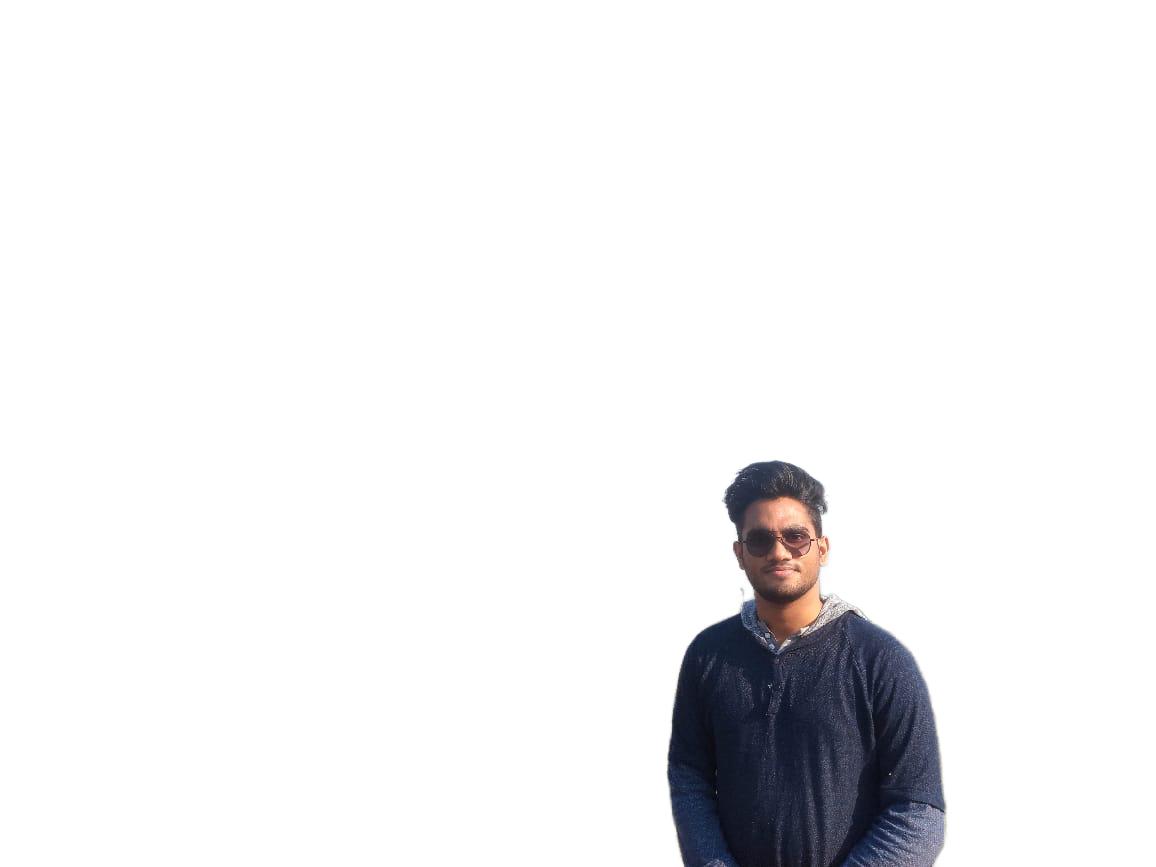
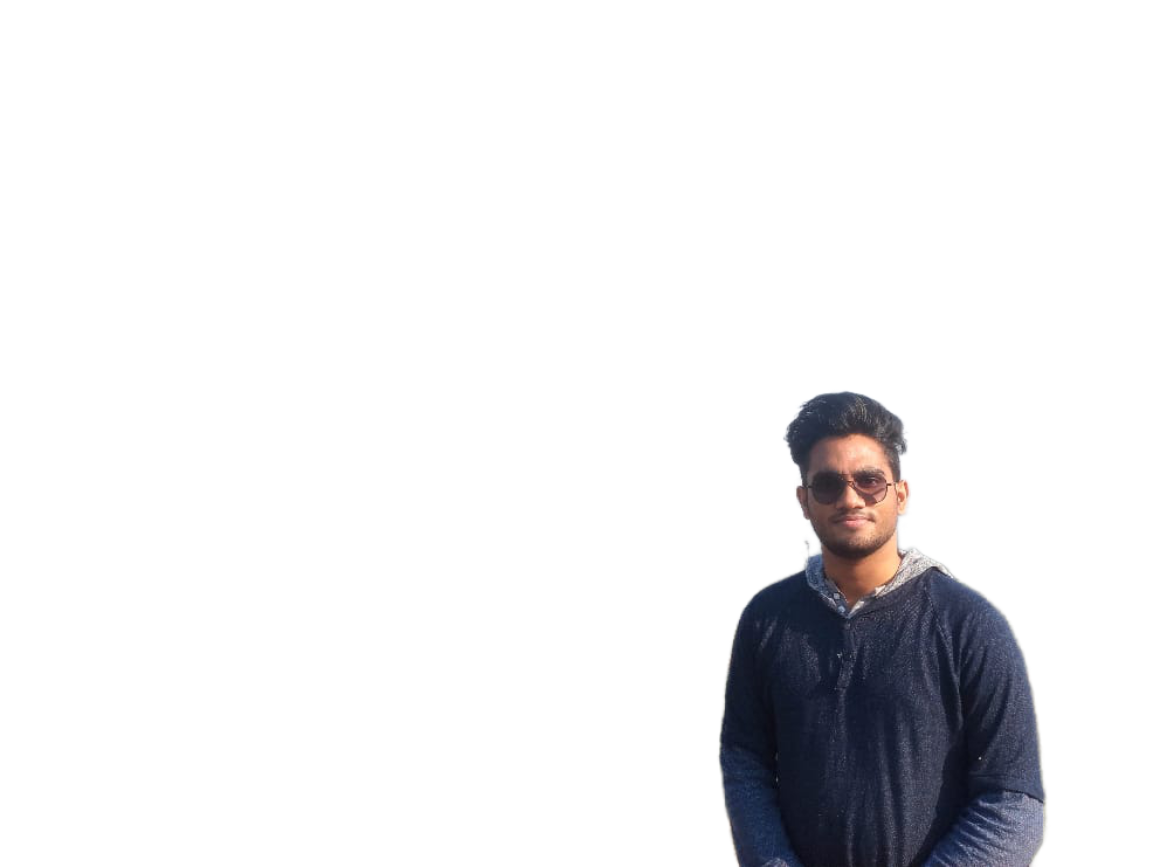
improvisation

Changed region(s): [[0.5606, 0.436, 0.9031, 1.0]]

diff --git a/index.html b/index.html
@@ -99,7 +99,7 @@
             165.547 130.807 187.559 100.226 186.353C69.6454 185.297 41.0228 161.023 21.7403
             129.362C2.45775 97.8511 -7.48481 59.1033 6.67581 34.5279C20.9871 10.1032 59.7028
             -0.149132 97.9666 0.00163737C136.23 0.303176 174.193 10.857 190.312 36.4879Z"/>
-                                <image class="home__blob-img" x="-108" y="-250" xlink:href="assets/img/ndpa.png"/>
+                                <image class="home__blob-img" x="-278" y="-140" xlink:href="assets/img/dp.png"/>
                             </g>
                         </svg>
 
